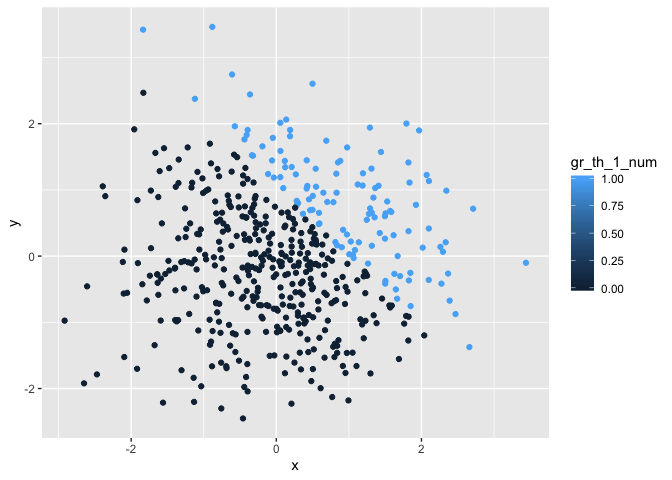
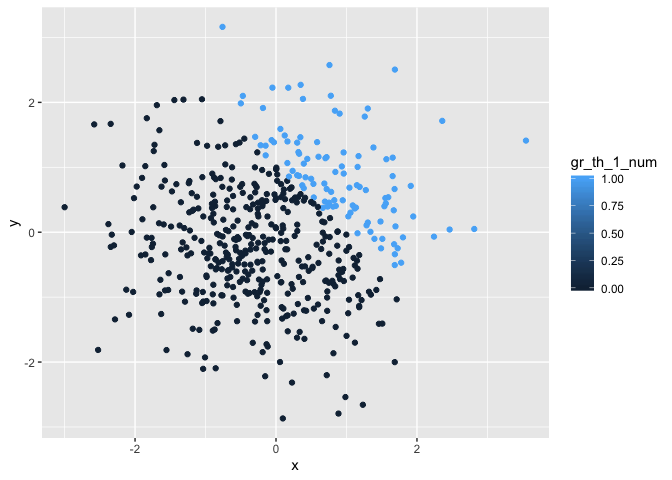
add some words to explain

diff --git a/p8105-hw1_al3998.md b/p8105-hw1_al3998.md
@@ -12,14 +12,14 @@ This is the first code chunk for Problem
 library(tidyverse)
 ```
 
-    ## ── Attaching packages ───────────────────────────────────────── tidyverse 1.2.1 ──
+    ## ── Attaching packages ─────────────────────────────────────────────────────────── tidyverse 1.2.1 ──
 
     ## ✔ ggplot2 3.2.1     ✔ purrr   0.3.2
     ## ✔ tibble  2.1.3     ✔ dplyr   0.8.3
     ## ✔ tidyr   0.8.3     ✔ stringr 1.4.0
     ## ✔ readr   1.3.1     ✔ forcats 0.4.0
 
-    ## ── Conflicts ──────────────────────────────────────────── tidyverse_conflicts() ──
+    ## ── Conflicts ────────────────────────────────────────────────────────────── tidyverse_conflicts() ──
     ## ✖ dplyr::filter() masks stats::filter()
     ## ✖ dplyr::lag()    masks stats::lag()
 
@@ -32,8 +32,8 @@ pr_df=tibble(
 )
 ```
 
-\#Take the mean The variable ra\_sample has a mean of 0.3210358,and the
-variable gr\_th\_0 has a mean of 0.625. The mean of variable `var_char`
+\#Take the mean The variable ra\_sample has a mean of 0.0761243,and the
+variable gr\_th\_0 has a mean of 0.375. The mean of variable `var_char`
 is NA,the mean of variable `var_fac` is NA
 
 ``` r
@@ -41,6 +41,18 @@ as.numeric(pull(pr_df,gr_th_0))
 as.numeric(pull(pr_df,var_char))
 as.numeric(pull(pr_df,var_fac))
 ```
+
+When converting logical values into numeric values,the logical value
+`True` takes the numeric value `1` and `False` takes the numeric value
+`0`.
+
+When converting character value into numeric ones,the character
+variables in this data frame are consisted of letters which may lead to
+`NA` when converting them to numeric value.Then,when we take the mean of
+them,the result will be `NA`.
+
+When converting factor values into numeric ones,the different levels may
+be converted into `1`,`2` and `3`.
 
 Here is the second chunk in problem
 1.
@@ -51,8 +63,8 @@ gr_th_0_num = as.numeric(pull(pr_df,gr_th_0))
 (gr_th_0_num)*(pull(pr_df,ra_sample))
 ```
 
-    ## [1] 0.000000000 0.001320336 0.401702894 1.214948273 0.000000000 0.722778602
-    ## [7] 0.000000000 0.516524063
+    ## [1] 1.9812285 0.0000000 0.0000000 0.0000000 0.0000000 0.0000000 0.2735057
+    ## [8] 1.0835865
 
 ``` r
 #convert the logical vector to a factor, and multiply the random sample by the result#
@@ -71,8 +83,8 @@ gr_th_0_facnum = as.numeric(gr_th_0_fac)
 (gr_th_0_facnum)*(pull(pr_df,ra_sample))
 ```
 
-    ## [1] -0.091640917  0.002640671  0.803405788  2.429896546 -0.058960112
-    ## [6]  1.445557205 -0.138387061  1.033048125
+    ## [1]  3.9624571 -0.4883555 -0.3683987 -1.4120782 -0.1657473 -0.2947462
+    ## [7]  0.5470113  2.1671729
 
 # Problem 2
 
@@ -91,11 +103,11 @@ pr2_df=tibble(
 The size of the data set can be described through the row and column of
 it.The column of the data set is 5 and the row of the data set is 500.
 
-The mean of x can be described as 0.05202. The median of x can be
-described as 0.0733167. The standard deviation of x can be described as
-1.0383948.
+The mean of x can be described as -0.1038555. The median of x can be
+described as -0.1473546. The standard deviation of x can be described as
+0.9974967.
 
-The proportion of cases for which x+y\>1 can be described as 0.24.
+The proportion of cases for which x+y\>1 can be described as 0.206.
 
 ### The scatterplot of y vs x
 
